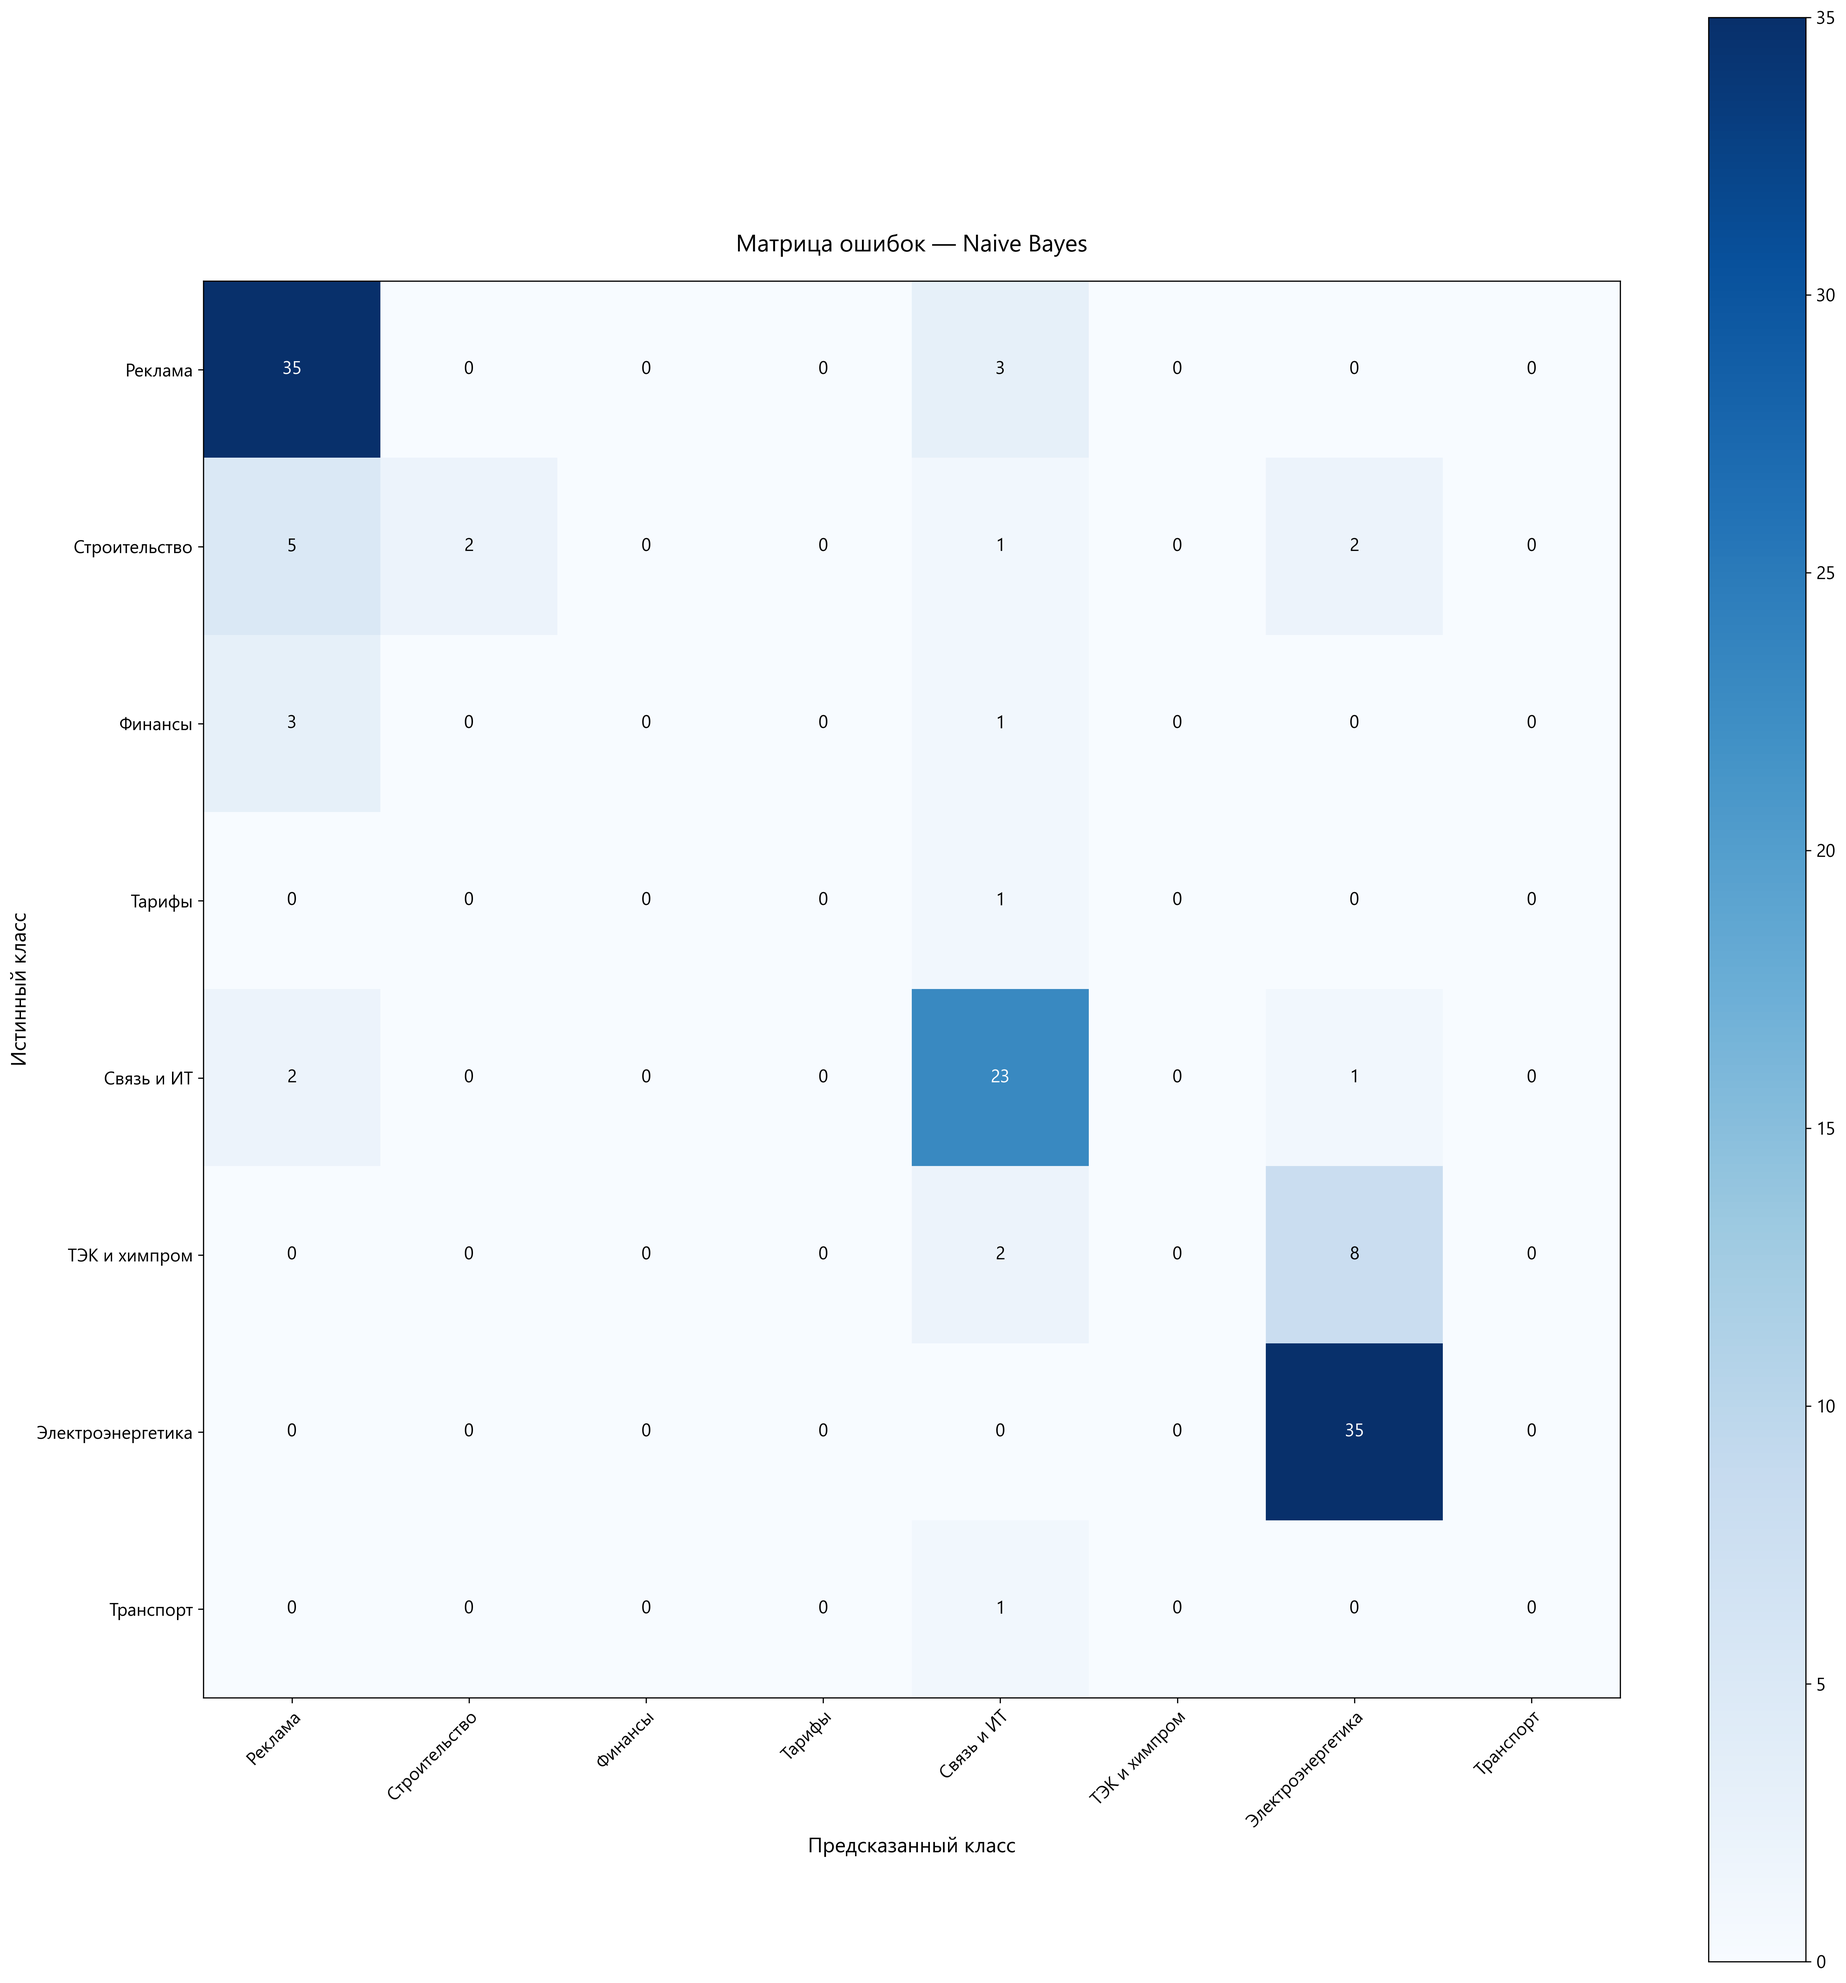
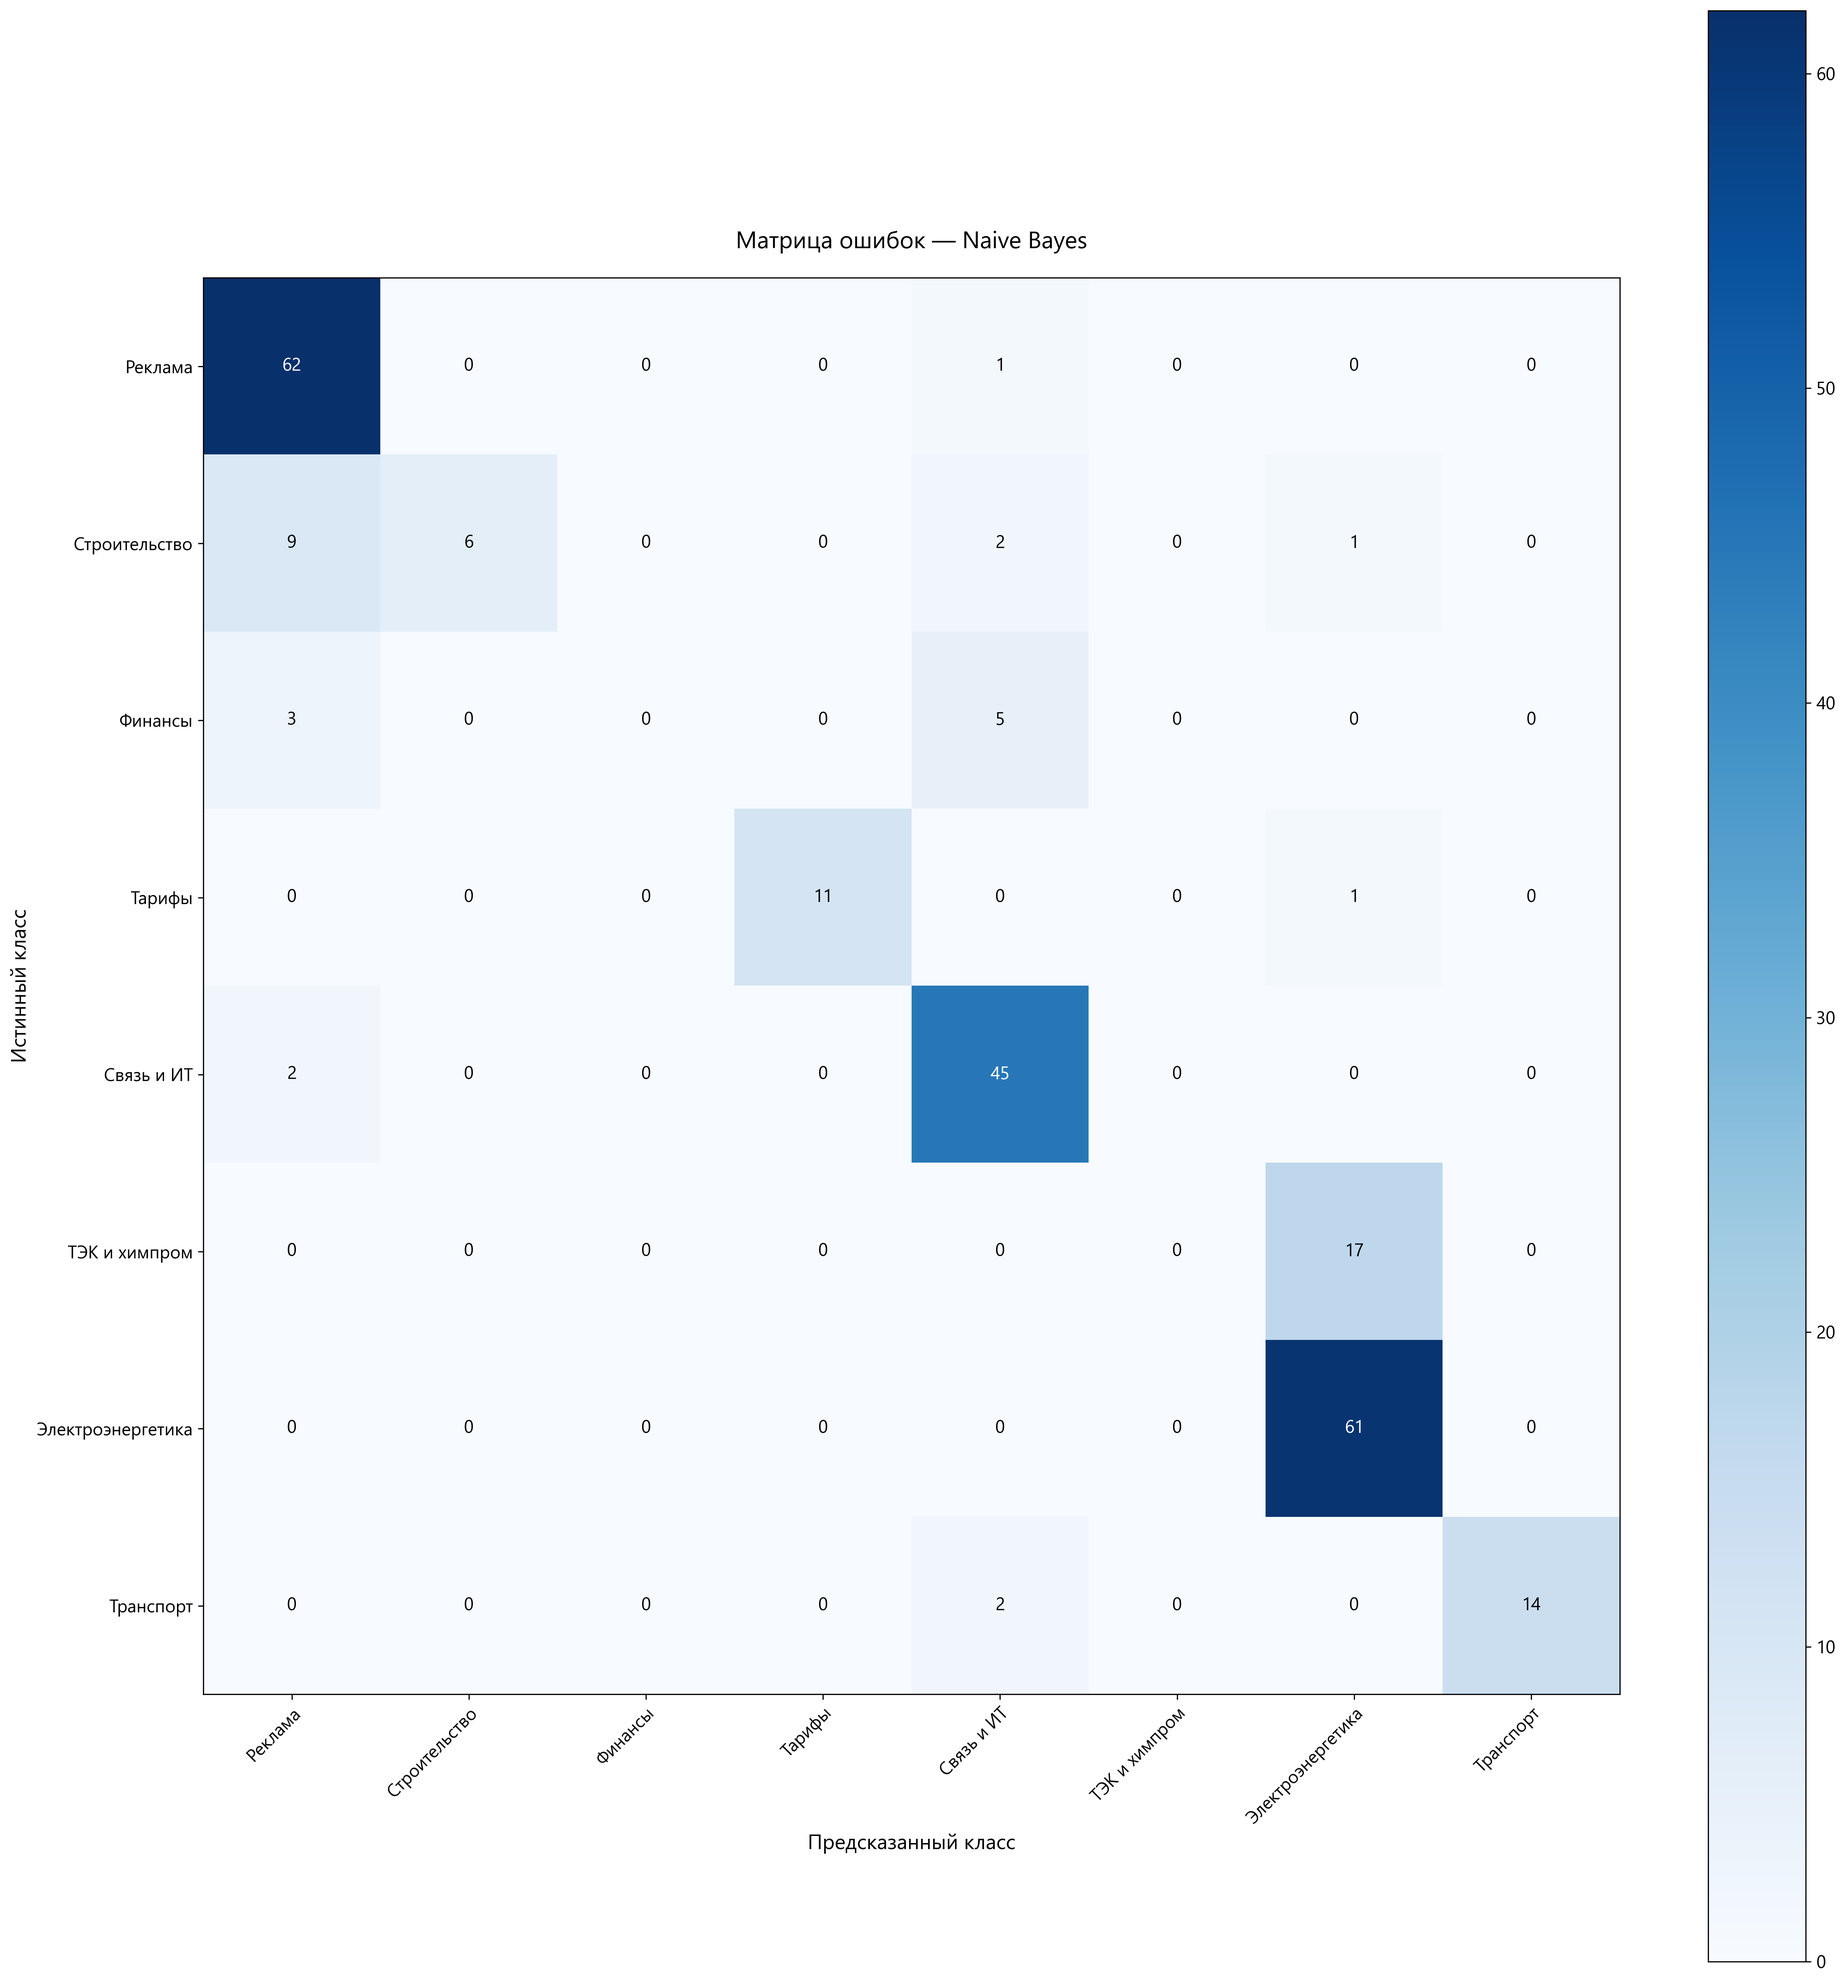
feat(training): improve model comparison and add training time
- Add time measurement for model training
- Include training time in the comparison metrics JSON output
- Display training time in the comparison table
- Update model evaluation process to capture training duration
- Improve metrics calculation for all models

diff --git a/main.py b/main.py
@@ -108,6 +108,10 @@ def _model_output_path_and_title(model_kind: str) -> Tuple[str, str]:
 
 def cmd_train(args: argparse.Namespace) -> None:
     """Обучение одной модели (логистическая регрессия, наивный байес или линейный SVM)."""
+    import time
+    
+    start_time = time.time()  # Замеряем время начала обучения
+    
     hf_id = getattr(args, "hf_dataset", None)
     if hf_id:
         pipeline, _X_train, _y_train, X_test, y_test, preprocessor = train_from_huggingface(
@@ -130,6 +134,9 @@ def cmd_train(args: argparse.Namespace) -> None:
             label_column=args.label_column,
         )
 
+    # Вычисляем время обучения
+    training_duration = time.time() - start_time
+    
     out_name, model_title = _model_output_path_and_title(args.model)
     out_file = os.path.join(args.out, out_name)
 
@@ -140,13 +147,19 @@ def cmd_train(args: argparse.Namespace) -> None:
         model_name=model_title,
         output_dir=args.out,
         labels_order=pipeline.classes_,
+        training_time=training_duration,  # Передаем время обучения
     )
     save_model_bundle(pipeline, preprocessor, out_file)
     print(f"\nМодель сохранена: {out_file}")
+    print(f"Время обучения: {training_duration:.2f} секунд")
 
 
 def cmd_compare(args: argparse.Namespace) -> None:
     """Обучение обеих моделей и сравнение метрик на одной тестовой выборке."""
+    import time
+    
+    start_time = time.time()  # Замеряем время начала
+    
     hf_id = getattr(args, "hf_dataset", None)
     if hf_id:
         result = train_both_models_from_huggingface(
@@ -170,6 +183,9 @@ def cmd_compare(args: argparse.Namespace) -> None:
     y_test = result["y_test"]
     preprocessor = result["preprocessor"]
 
+    # Вычисляем общее время обучения
+    total_training_duration = time.time() - start_time
+    
     # Оценка и файлы для логистической регрессии
     evaluate_and_report(
         pipe_lr,
@@ -178,6 +194,7 @@ def cmd_compare(args: argparse.Namespace) -> None:
         model_name="Logistic Regression",
         output_dir=args.out,
         labels_order=pipe_lr.classes_,
+        training_time=total_training_duration,  # Передаем общее время обучения
     )
     save_model_bundle(
         pipe_lr,
@@ -193,6 +210,7 @@ def cmd_compare(args: argparse.Namespace) -> None:
         model_name="Naive Bayes",
         output_dir=args.out,
         labels_order=pipe_nb.classes_,
+        training_time=total_training_duration,  # Передаем общее время обучения
     )
     save_model_bundle(
         pipe_nb,
@@ -208,8 +226,50 @@ def cmd_compare(args: argparse.Namespace) -> None:
         X_test,
         y_test,
     )
-    print_metrics_comparison_table(rows)
-    print(f"\nСохранены модели: {config.FILENAME_VECTORIZER_MODEL_LR}, {config.FILENAME_VECTORIZER_MODEL_NB}")
+    table = Table(
+        title="Сравнение моделей",
+        caption=f"Тестовая выборка: {len(y_test)} объектов",
+        caption_justify="left",
+    )
+    table.add_column("Модель", justify="left")
+    table.add_column("Accuracy", justify="center")
+    table.add_column("Precision", justify="center")
+    table.add_column("Recall", justify="center")
+    table.add_column("F1", justify="center")
+
+    for row in rows:
+        table.add_row(*row)
+
+    console = Console()
+    console.print(table)
+
+    out_path = os.path.join(args.out, "comparison_metrics.json")
+    with open(out_path, "w", encoding="utf-8") as f:
+        json.dump(
+            {
+                "test_size": len(y_test),
+                "models": {
+                    "logistic_regression": {
+                        "accuracy": float(rows[0][1]),
+                        "precision": float(rows[0][2]),
+                        "recall": float(rows[0][3]),
+                        "f1": float(rows[0][4]),
+                    },
+                    "naive_bayes": {
+                        "accuracy": float(rows[1][1]),
+                        "precision": float(rows[1][2]),
+                        "recall": float(rows[1][3]),
+                        "f1": float(rows[1][4]),
+                    },
+                },
+                "training_time_seconds": total_training_duration,  # Добавляем время обучения в JSON
+            },
+            f,
+            indent=2,
+            ensure_ascii=False,
+        )
+    print(f"\nСравнение сохранено: {out_path}")
+    print(f"Общее время обучения обеих моделей: {total_training_duration:.2f} секунд")
 
 
 def cmd_predict(args: argparse.Namespace) -> None:

diff --git a/evaluation/evaluate.py b/evaluation/evaluate.py
@@ -30,6 +30,7 @@ def evaluate_and_report(
     model_name: str,
     output_dir: Optional[str] = None,
     labels_order: Optional[Union[list, np.ndarray]] = None,
+    training_time: Optional[float] = None,  # Добавляем параметр для времени обучения
 ) -> Dict[str, Any]:
     """
     Предсказание на тесте, вывод матрицы ошибок и отчёта, сохранение JSON и PNG.
@@ -47,6 +48,11 @@ def evaluate_and_report(
     print("\n--- Сводные метрики ---")
     for key, value in main_metrics.items():
         print(f"  {key}: {value:.4f}")
+
+    # Выводим время обучения, если оно передано
+    if training_time is not None:
+        print(f"\n--- Время обучения ---")
+        print(f"  Время обучения модели: {training_time:.2f} секунд")
 
     payload = build_metrics_payload(
         y_test,

diff --git a/ui/app.py b/ui/app.py
@@ -769,6 +769,10 @@ with tab_train:
                 # Оценка + артефакты
                 status_text.text("Оценка и сохранение...")
                 progress.progress(0.8)
+                
+                # Вычисляем время обучения до вызова evaluate_and_report
+                training_time = time.time() - start_time
+                
                 title_map = {"logreg": "Logistic Regression", "nb": "Naive Bayes", "svm": "Linear SVM"}
                 payload = evaluate_and_report(
                     pipeline,
@@ -777,6 +781,7 @@ with tab_train:
                     model_name=title_map[model_kind],
                     output_dir=out_dir,
                     labels_order=pipeline.classes_,
+                    training_time=training_time,  # Передаем время обучения
                 )
 
                 # Сохранение модели

diff --git a/training/config.py b/training/config.py
@@ -34,7 +34,7 @@ TFIDF_MAX_FEATURES = 30_000
 TFIDF_MIN_DF = 2
 TFIDF_MAX_DF = 0.95
 
-# Н-граммы: (1, 2) — униграммы и биграммы
+#  Н-граммы: (1, 2) — униграммы, биграммы
 TFIDF_NGRAM_RANGE = (1, 2)
 
 # Нормализация L2 для вектора документа
@@ -46,7 +46,7 @@ TFIDF_SUBLINEAR_TF = True
 # --- Logistic Regression ---
 LR_C = 1.0
 LR_MAX_ITER = 2000
-LR_SOLVER = "lbfgs"
+LR_SOLVER = "liblinear"
 LR_CLASS_WEIGHT = "balanced"  # при дисбалансе классов можно поставить "balanced"
 
 # --- Naive Bayes  ---
